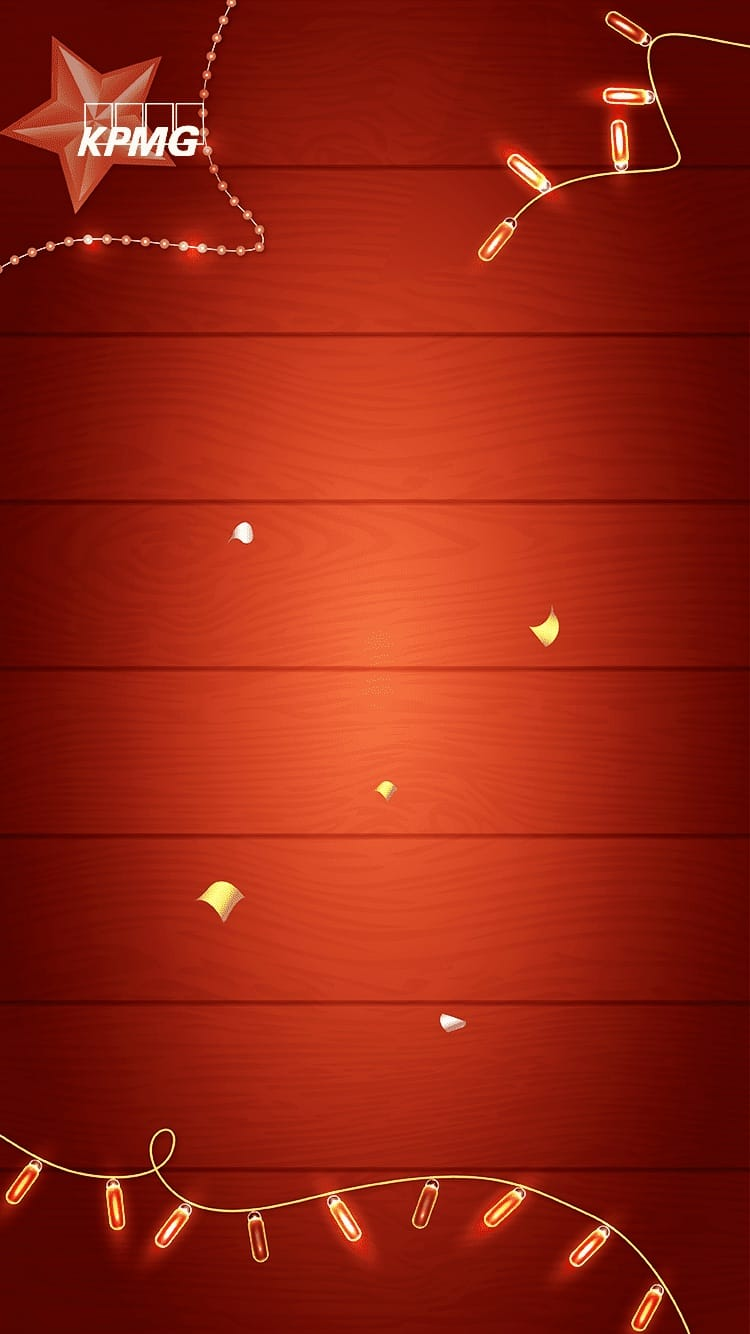
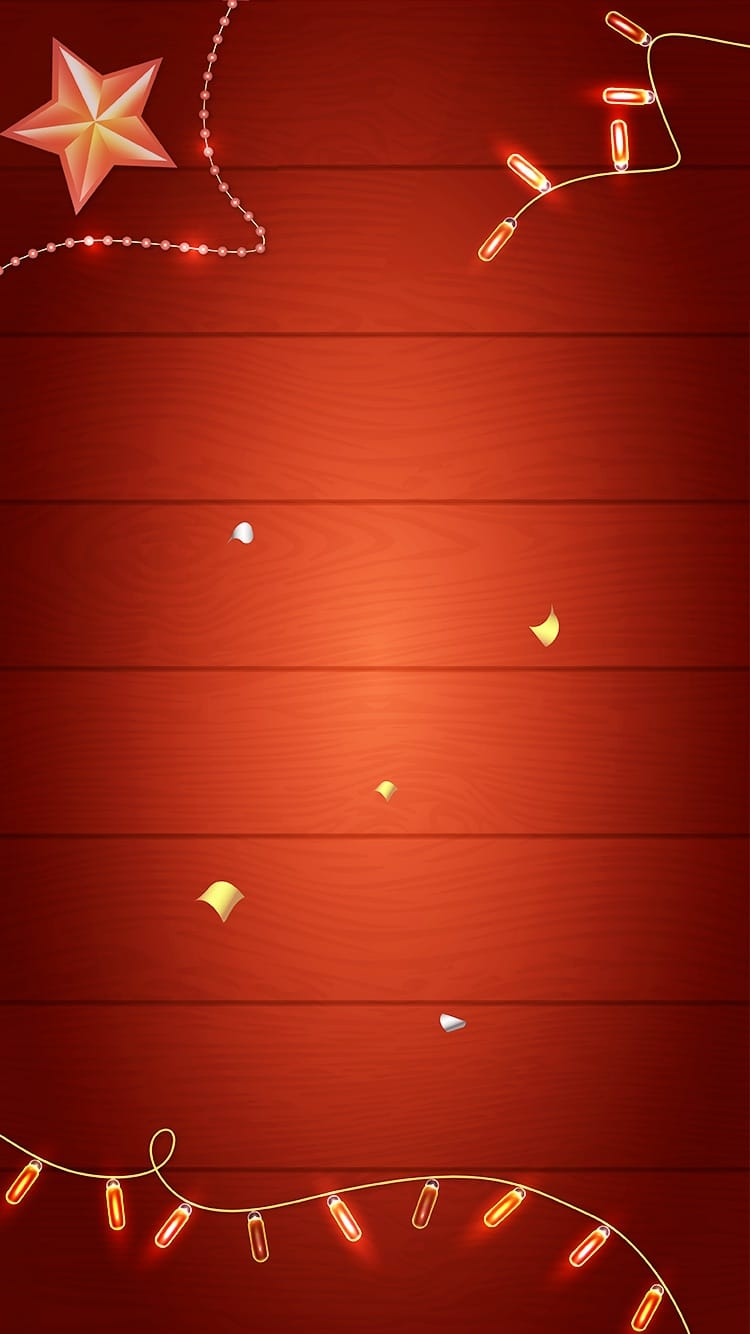
complete v0.1

diff --git a/src/pages/complete/complete.js b/src/pages/complete/complete.js
@@ -17,12 +17,60 @@ Page({
     canvas: 'thirdCanvas'
   },
 
+  // compose image
+  createImage () {
+    var that = this
+
+    this.showToast('正在生成图片', 'loading')
+
+    var system = wx.getSystemInfoSync()
+    // console.log(system);
+    var screenWidth = system.windowWidth
+    var screenHeight = system.windowHeight
+    // create image
+    wx.canvasToTempFilePath({
+      x: 0,
+      y: 0,
+      height: screenHeight,
+      width: screenWidth,
+      canvasId: this.data.canvas,
+      success: (res) => {
+        wx.saveImageToPhotosAlbum({
+          filePath: res.tempFilePath,
+          success: (res) => {
+            that.showToast('请在相册中查看生成的图片', 'success')
+            console.log("success:" + res);
+          }, fail(e) {
+            console.log("err:" + e);
+          }
+        })
+      }
+    });// end of canvas to file
+  },
+
+  showToast (title, type) {
+    wx.showToast({
+          title: title,
+          icon: type,
+          // image:'../../images/icon_intro.png',
+          duration: 2000
+    });
+  },
+
   changeBG (evt) {
     // console.log(evt)
     var i = Number(evt.currentTarget.dataset.index)
     var image = this.data.options[i]
-    console.log(image);
+    // console.log(image);
     this.setData({background: image})
+    // redraw
+    wx.getImageInfo({
+      src: this.data.background,
+      success: res => {
+        // console.log(res);
+        this.drawAll(this.data.background, res.width, res.height)
+      }
+    })
   },
 
   switchImgs () {
@@ -32,26 +80,51 @@ Page({
 
   /**
    * 生命周期函数--监听页面加载
+   * 注：这里不适合密集计算!
+   * @2018/01/30
    */
   onLoad () {
     // console.log(app.data);
-    var defaultBG = this.data.options[0]
-    this.setData({background: defaultBG})
-
   },
+
 
   /**
    * 生命周期函数--监听页面初次渲染完成
    */
   onReady () {
+    // console.log(new Date().getTime());
+    var defaultBG = this.data.options[0]
+    this.setData({background: defaultBG})
+    // 必须得到图片的大小以计算缩放比例，不然没法画
+    wx.getImageInfo({
+      src: this.data.background,
+      success: res => {
+        // console.log(res);
+        this.drawAll(this.data.background, res.width, res.height)
+      }
+    })
+  },
+
+  drawLargeText (context, fontSize, text, x, y) {
+    context.setFillStyle('#FFFFFF')
+    context.setFontSize(fontSize)
+    context.fillText(text, x, y)
+  },
+
+  drawAll (imgPath, imgWidth, imgHeight) {
     var system = wx.getSystemInfoSync()
-    console.log(system)
+    // console.log(system);
     var screenWidth = system.windowWidth
     var screenHeight= system.windowHeight
     var context = wx.createCanvasContext(this.data.canvas)
+    // draw background image
+    context.save()
+    context.scale(screenWidth/imgWidth, screenHeight/imgHeight)
+    context.drawImage(imgPath, 0, 0)
+    context.restore()
 
     var startX = screenWidth/3
-    var startY = 20
+    var startY = 120
     var rectW = screenWidth/3
     var rectH = screenHeight*2.2/5
 
@@ -81,20 +154,26 @@ Page({
       this.drawLargeText(context, 22, char, startX+rectW-46, startY+110+index*28)
       index ++
     }
-    // context.save()
-    // draw light bulb
-    // context.scale(0.5, 0.5)
-    // context.drawImage('../../images/lamp-bulb.png', screenWidth+rectW/2, 0)
 
-    // draw lastly, done!
-    // context.restore()
+    // draw kpmg wish for new year
+    var wish = '毕马威祝您在新的一年里能够发现机遇，'
+    var wish2 = '实现梦想'
+    this.drawLargeText(context, 18, wish, 40, screenHeight-180)
+    this.drawLargeText(context, 18, wish2, 40, screenHeight-140)
+
+    // draw qrcode image
+    context.save()
+    context.scale(0.6, 0.6)
+    context.drawImage('../../images/discoverlogo.jpg', screenWidth*1.2, screenHeight*1.26+20)
+    context.restore()
+
+    // draw kpmg logo
+    context.save()
+    context.scale(0.4, 0.4)
+    context.drawImage('../../images/kpmg-200.png', 60, 60)
+    context.restore()
+
     context.draw()
-  },
-
-  drawLargeText (context, fontSize, text, x, y) {
-    context.setFillStyle('#FFFFFF')
-    context.setFontSize(fontSize)
-    context.fillText(text, x, y)
   },
 
   /**

diff --git a/src/pages/complete/complete.less b/src/pages/complete/complete.less
@@ -49,7 +49,7 @@
 
 .share-btn {
   position: absolute;
-  bottom: 200rpx;
+  bottom: 180rpx;
   margin-left: 15%;
 
   button {
@@ -60,10 +60,13 @@
 }
 
 .third-canvas {
-  position: absolute;
-  top: 14%;
+  // position: absolute;
+  // top: 14%;
+  // width: 100%;
+  // height: 50%;
+
   width: 100%;
-  height: 50%;
+  height: 100%;
 }
 
 
